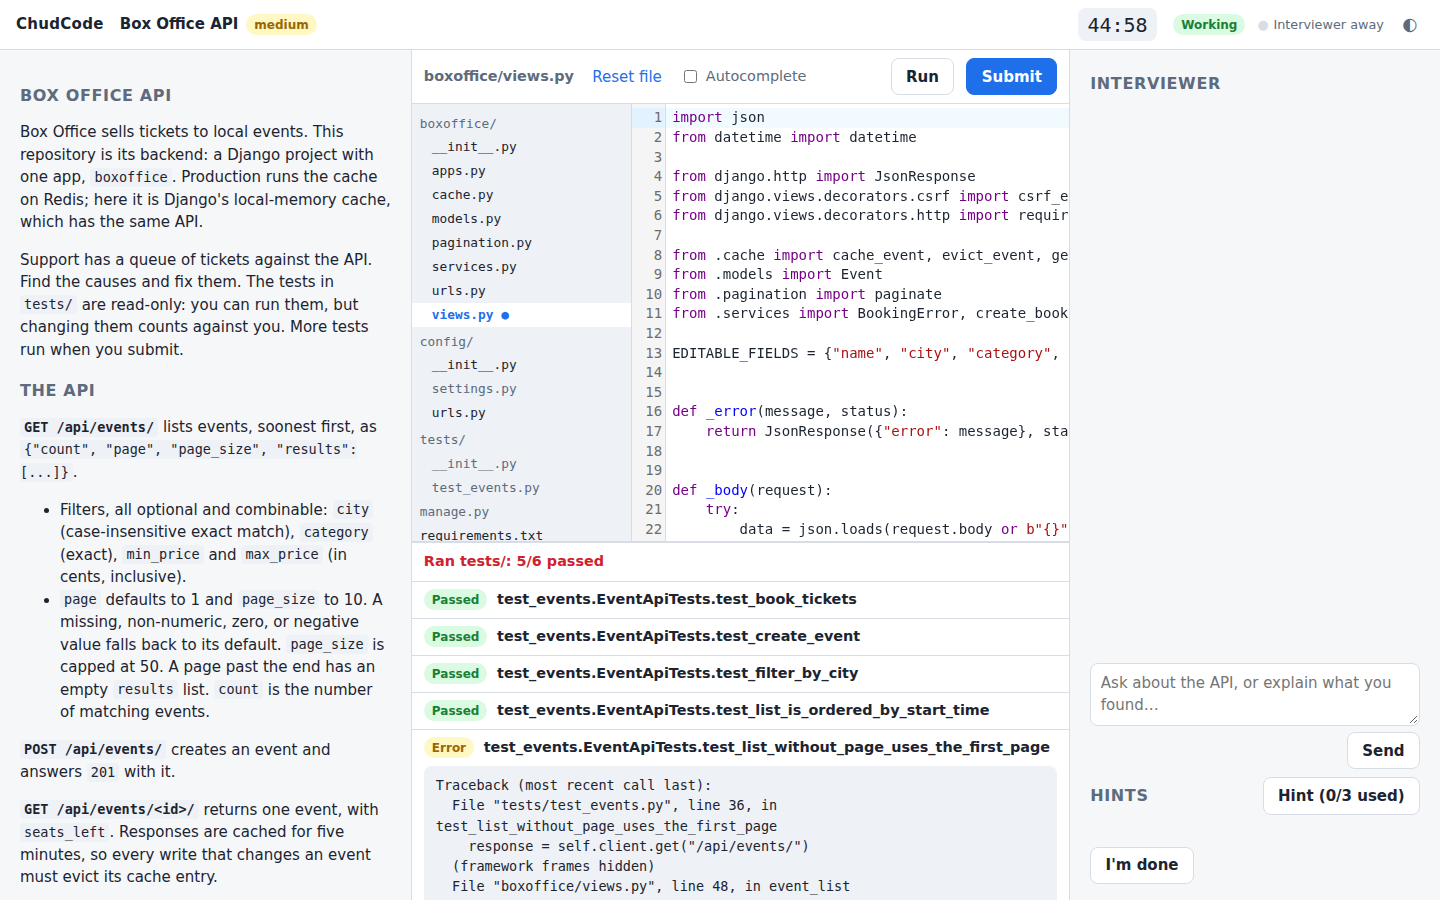
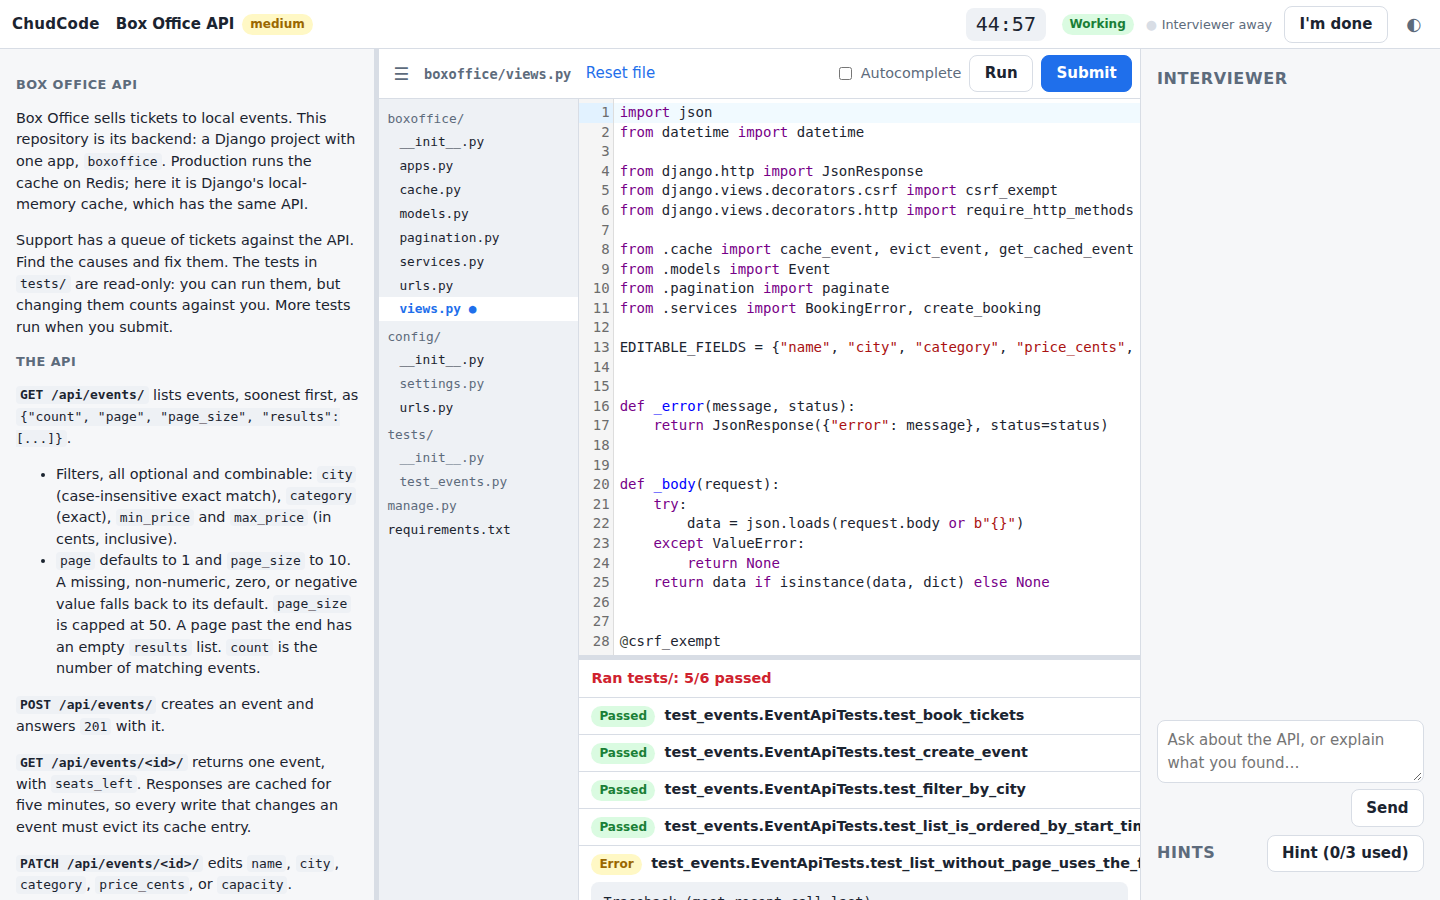
Lay the project page out like HackerRank's project IDE
The question sits on the left, then the file tree, then the editor over the
test results, filling the window. The question and the results resize by
dragging and the question can be hidden; the layout is remembered per browser.
Start, Finish, Run and Submit move to the bars, and the interviewer's panel
appears only when it has something in it, so an online assessment gives its
width to the editor until the clock stops. The page stacks only on narrow
screens, not below 1100px as before.

diff --git a/src/server/pages/project.ts b/src/server/pages/project.ts
@@ -1,8 +1,9 @@
 /**
- * project.ts: the project session page. The ticket on the left; the repository's
- * file tree, an editor, and the test results in the middle; the interviewer on the
- * right. In an online assessment the chat and hints stay hidden while the clock
- * runs, the way the real thing has nobody to ask.
+ * project.ts: the project session page, laid out like HackerRank's project IDE: the
+ * question on the left, then the file tree, and the editor over the test results.
+ * The interviewer's panel sits on the right only when it has something in it; in an
+ * online assessment it stays hidden while the clock runs, the way the real thing has
+ * nobody to ask.
  */
 
 import { formatClock } from "../../format.ts";
@@ -52,10 +53,16 @@ export function projectPage(state: ProjectState, options: { autocomplete: boolea
     title: `${escapeHtml(session.projectTitle)} ${difficultyBadge(session.difficulty)}${session.oa ? ' <span class="badge">Online assessment</span>' : ""}`,
     middle: `<span class="timer" id="timer">${formatClock(state.remainingMs ?? session.timerMs)}</span>`,
     right: `<span class="phase-badge phase-${session.phase}" id="phase">${PHASE_LABELS[session.phase]}</span>
-    <span class="presence ${state.listening ? "listening" : ""}" id="presence" title="Whether the interviewer is listening">${state.listening ? "Interviewer listening" : "Interviewer away"}</span>`,
+    <span class="presence ${state.listening ? "listening" : ""}" id="presence" title="Whether the interviewer is listening" ${session.oa ? "hidden" : ""}>${state.listening ? "Interviewer listening" : "Interviewer away"}</span>
+    <button type="button" class="button primary" id="start-button" ${session.phase === "briefing" ? "" : "hidden"}>Start the clock</button>
+    <button type="button" class="button" id="done-button" ${session.phase === "briefing" ? "hidden" : ""} ${session.phase === "review" || session.phase === "done" ? "disabled" : ""}>${session.oa ? "Finish assessment" : "I'm done"}</button>`,
   })}
-<main class="panes project">
-  <section class="pane pane-statement">
+<main class="project-layout" id="project-layout">
+  <section class="pane-statement" id="statement-pane">
+    <div class="briefing" id="briefing" ${session.phase === "briefing" ? "" : "hidden"}>
+      <p><strong>Before you start:</strong> read the question and look around the repository. The clock starts when you press Start the clock, and files can be changed from then on.</p>
+      ${session.oa ? "<p><strong>Online assessment:</strong> nobody answers while the clock runs and there are no hints. The interviewer debriefs you at the end.</p>" : "<p>Ask the interviewer about the API as you would a teammate.</p>"}
+    </div>
     ${state.statementHtml}
     <h2>Read-only files</h2>
     <p class="muted small">Changing one of these fails a submission, as it scores zero on a real assessment.</p>
@@ -63,38 +70,36 @@ export function projectPage(state: ProjectState, options: { autocomplete: boolea
     <h2>Working locally</h2>
     <p class="muted small">The repository is also at <code>${escapeHtml(session.workspace)}</code>. Edit it in your own editor if you prefer; the page picks up saved changes when you come back to it.</p>
   </section>
+  <div class="splitter splitter-col" id="statement-splitter" role="separator" aria-orientation="vertical" title="Drag to resize the question. Double-click to reset."></div>
 
-  <section class="pane pane-workspace">
+  <section class="project-workspace">
     <div class="toolbar">
+      <button type="button" class="icon-button" id="toggle-statement" title="Hide the question" aria-pressed="true">☰</button>
       <span class="language" id="file-name">${escapeHtml(firstFile)}</span>
       <span class="badge" id="file-readonly" hidden>read-only</span>
       <button type="button" class="link-button" id="reset-file" hidden>Reset file</button>
-      <label class="toggle"><input type="checkbox" id="autocomplete-toggle" ${options.autocomplete ? "checked" : ""}> Autocomplete</label>
       <span class="toolbar-spacer"></span>
       <span class="save-state" id="save-state"></span>
+      <label class="toggle"><input type="checkbox" id="autocomplete-toggle" ${options.autocomplete ? "checked" : ""}> Autocomplete</label>
       <button type="button" class="button" id="run-button" ${session.phase === "briefing" || session.phase === "done" ? "disabled" : ""} title="Run the tests in tests/ (Ctrl+Enter)">Run</button>
       <button type="button" class="button primary" id="submit-button" ${session.phase === "briefing" || session.phase === "done" ? "disabled" : ""} title="Run every test, hidden ones included (Ctrl+Shift+Enter)">Submit</button>
     </div>
     <div class="project-ide">
       <nav class="file-tree" id="file-tree" aria-label="Repository files"></nav>
-      <div class="editor-host" id="editor"><pre class="editor-fallback">Loading ${escapeHtml(firstFile)}…</pre></div>
-    </div>
-    <section class="tests-panel" id="tests-panel">
-      <div class="tests-header">
-        <span id="tests-summary" class="tests-summary">Run tests runs tests/. Submit adds the hidden tests. A run takes a few seconds.</span>
+      <div class="editor-column" id="editor-column">
+        <div class="editor-host" id="editor"><pre class="editor-fallback">Loading ${escapeHtml(firstFile)}…</pre></div>
+        <div class="splitter splitter-row" id="tests-splitter" role="separator" aria-orientation="horizontal" title="Drag to resize the results. Double-click to reset."></div>
+        <section class="tests-panel" id="tests-panel">
+          <div class="tests-header">
+            <span id="tests-summary" class="tests-summary">Run runs tests/. Submit adds the hidden tests. A run takes a few seconds.</span>
+          </div>
+          <ol class="case-list" id="case-list"></ol>
+        </section>
       </div>
-      <ol class="case-list" id="case-list"></ol>
-    </section>
+    </div>
   </section>
 
-  <aside class="pane pane-side">
-    <section class="briefing" id="briefing" ${session.phase === "briefing" ? "" : "hidden"}>
-      <h2>Before you start</h2>
-      <p>Read the ticket and look around the repository. The clock starts when you press Start, and files can be changed from then on.</p>
-      ${session.oa ? "<p><strong>Online assessment:</strong> nobody answers while the clock runs and there are no hints. The interviewer debriefs you at the end.</p>" : "<p>Ask the interviewer about the API as you would a teammate.</p>"}
-      <div class="button-row"><button type="button" class="button primary" id="start-button">Start the clock</button></div>
-    </section>
-
+  <aside class="pane-side" id="side-pane" ${quiet && !session.rubric ? "hidden" : ""}>
     <section class="chat" id="chat" ${quiet ? "hidden" : ""}>
       <h2>Interviewer</h2>
       <ul class="messages" id="messages">${messages}</ul>
@@ -113,10 +118,6 @@ export function projectPage(state: ProjectState, options: { autocomplete: boolea
     </section>
 
     <section class="rubric" id="rubric">${session.rubric ? rubricHtml(state) : ""}</section>
-
-    <div class="side-footer">
-      <button type="button" class="button" id="done-button" ${session.phase === "review" || session.phase === "done" ? "disabled" : ""}>I'm done</button>
-    </div>
   </aside>
 </main>`;
 

diff --git a/assets/runtime/app.css b/assets/runtime/app.css
@@ -1565,16 +1565,114 @@ textarea:focus,
 
 /* ── Project sessions ─────────────────────────────────────────────────────── */
 
-.project-ide {
-  flex: 1 1 55%;
-  display: grid;
-  grid-template-columns: minmax(160px, 220px) 1fr;
-  min-height: 320px;
-  border-bottom: 1px solid var(--border);
+/* Laid out like HackerRank's project IDE: the question, then the file tree, then the
+   editor over the results, filling the window with nothing scrolling but the panels. */
+
+.project-session {
+  height: 100vh;
+  overflow: hidden;
 }
 
-.project-ide .editor-host {
+.project-layout {
+  --statement-width: clamp(260px, 26vw, 420px);
+  --tests-height: 30%;
+  flex: 1;
+  display: flex;
   min-height: 0;
+}
+
+.project-layout .pane-statement {
+  flex: 0 0 var(--statement-width);
+  overflow: auto;
+  padding: 0.75rem 1rem;
+  font-size: 0.9rem;
+  min-width: 0;
+}
+
+.project-layout .pane-statement h1 {
+  font-size: 1.15rem;
+}
+
+.project-layout .pane-statement h2 {
+  font-size: 0.8rem;
+  margin-top: 1rem;
+}
+
+.project-layout.statement-hidden .pane-statement,
+.project-layout.statement-hidden #statement-splitter {
+  display: none;
+}
+
+.project-layout .briefing {
+  border: 1px solid var(--accent);
+  border-radius: var(--radius);
+  padding: 0.5rem 0.75rem;
+  margin-bottom: 0.75rem;
+  background: var(--surface);
+}
+
+.splitter {
+  flex: 0 0 5px;
+  background: var(--border);
+  touch-action: none;
+}
+
+.splitter-col {
+  cursor: col-resize;
+}
+
+.splitter-row {
+  cursor: row-resize;
+}
+
+.splitter:hover,
+.splitter.dragging {
+  background: var(--accent);
+}
+
+.project-workspace {
+  flex: 1;
+  display: flex;
+  flex-direction: column;
+  min-width: 0;
+  min-height: 0;
+}
+
+.project-ide {
+  flex: 1;
+  display: grid;
+  grid-template-columns: minmax(150px, 200px) minmax(0, 1fr);
+  min-height: 0;
+}
+
+.editor-column {
+  display: flex;
+  flex-direction: column;
+  min-width: 0;
+  min-height: 0;
+}
+
+.project-session .editor-host {
+  flex: 1;
+  min-height: 0;
+}
+
+.project-session .tests-panel {
+  flex: 0 0 var(--tests-height);
+  min-height: 0;
+  border-top: 0;
+}
+
+.project-layout .pane-side {
+  flex: 0 0 300px;
+  overflow: auto;
+  padding: 0.75rem 1rem;
+  border-left: 1px solid var(--border);
+  min-width: 0;
+}
+
+.project-layout [hidden] {
+  display: none;
 }
 
 .file-tree {
@@ -1640,9 +1738,31 @@ textarea:focus,
   color: var(--danger);
 }
 
-@media (max-width: 700px) {
+@media (max-width: 900px) {
+  .project-session {
+    height: auto;
+    overflow: visible;
+  }
+
+  .project-layout {
+    flex-direction: column;
+  }
+
+  .project-layout .pane-statement {
+    flex: none;
+    max-height: 40vh;
+  }
+
+  .project-layout .splitter-col {
+    display: none;
+  }
+
   .project-ide {
     grid-template-columns: 1fr;
+  }
+
+  .editor-column {
+    height: 75vh;
   }
 
   .file-tree {
@@ -1650,11 +1770,19 @@ textarea:focus,
     border-right: 0;
     border-bottom: 1px solid var(--border);
   }
+
+  .project-layout .pane-side {
+    flex: none;
+    border-left: 0;
+    border-top: 1px solid var(--border);
+  }
 }
 
 .project-session .toolbar {
   flex-wrap: wrap;
   row-gap: 0.35rem;
+  gap: 0.5rem;
+  padding: 0.35rem 0.5rem;
 }
 
 .project-session .toolbar .button,
@@ -1662,10 +1790,17 @@ textarea:focus,
   white-space: nowrap;
 }
 
-.project-session .toolbar [hidden] {
+.project-session .toolbar [hidden],
+.project-session .topbar [hidden] {
   display: none;
 }
 
 .project-session #file-name {
   overflow-wrap: anywhere;
+  font-family: var(--mono);
+  font-size: 0.85rem;
+}
+
+.project-session .topbar {
+  padding: 0.35rem 0.75rem;
 }
